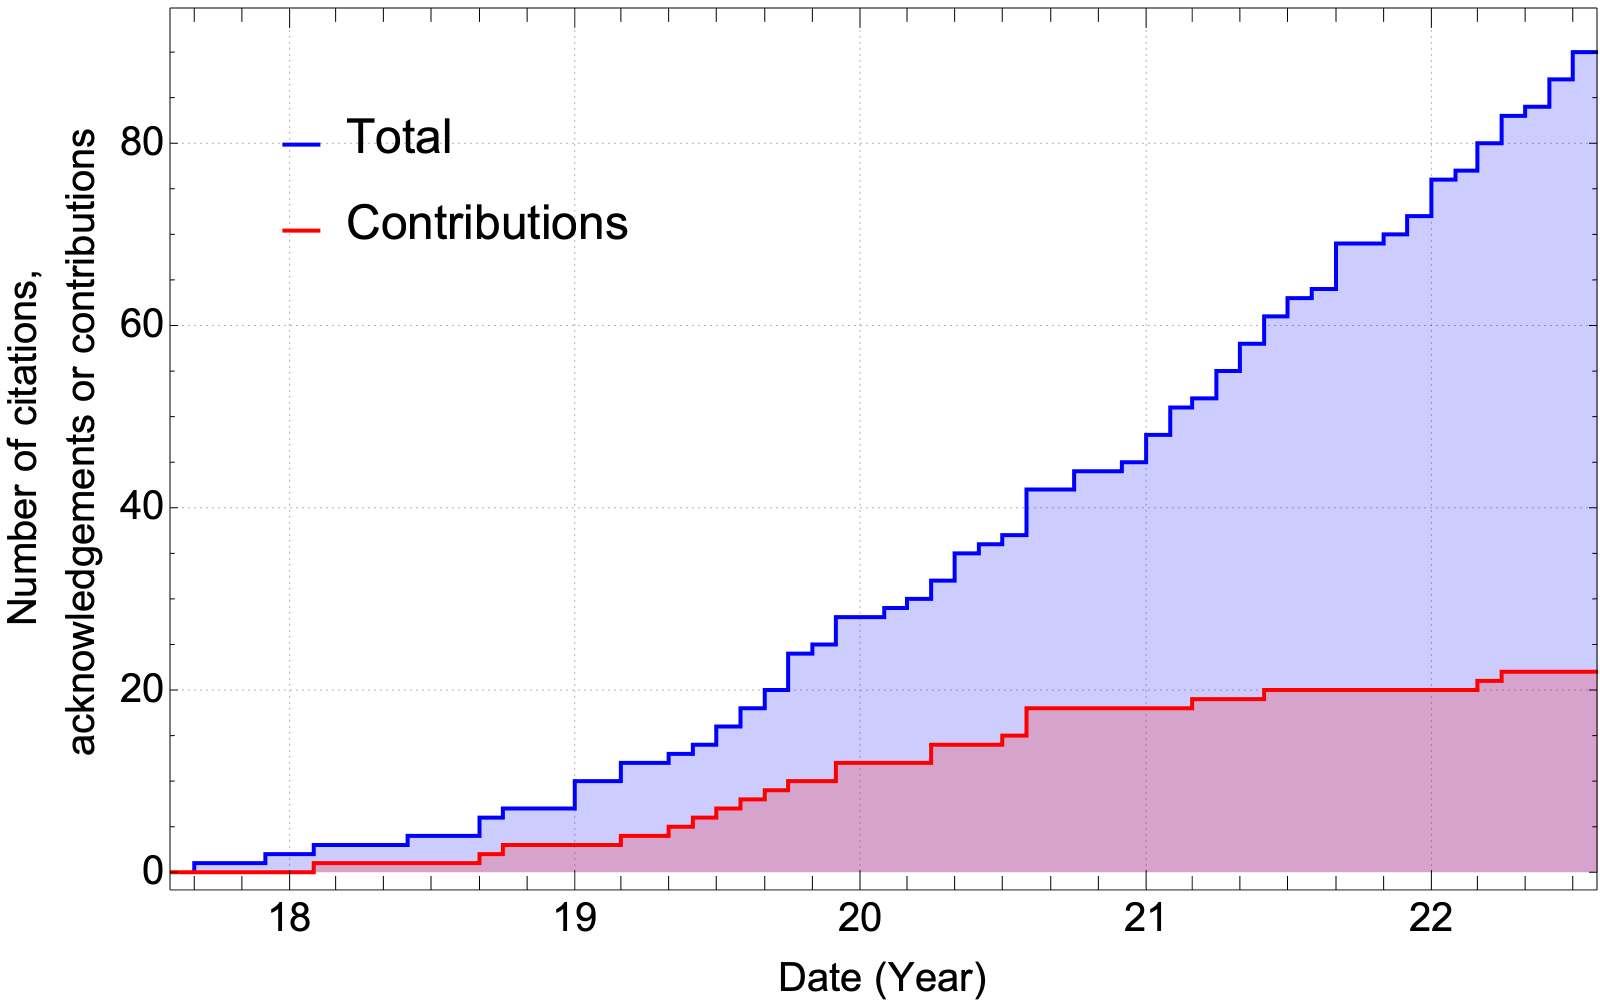
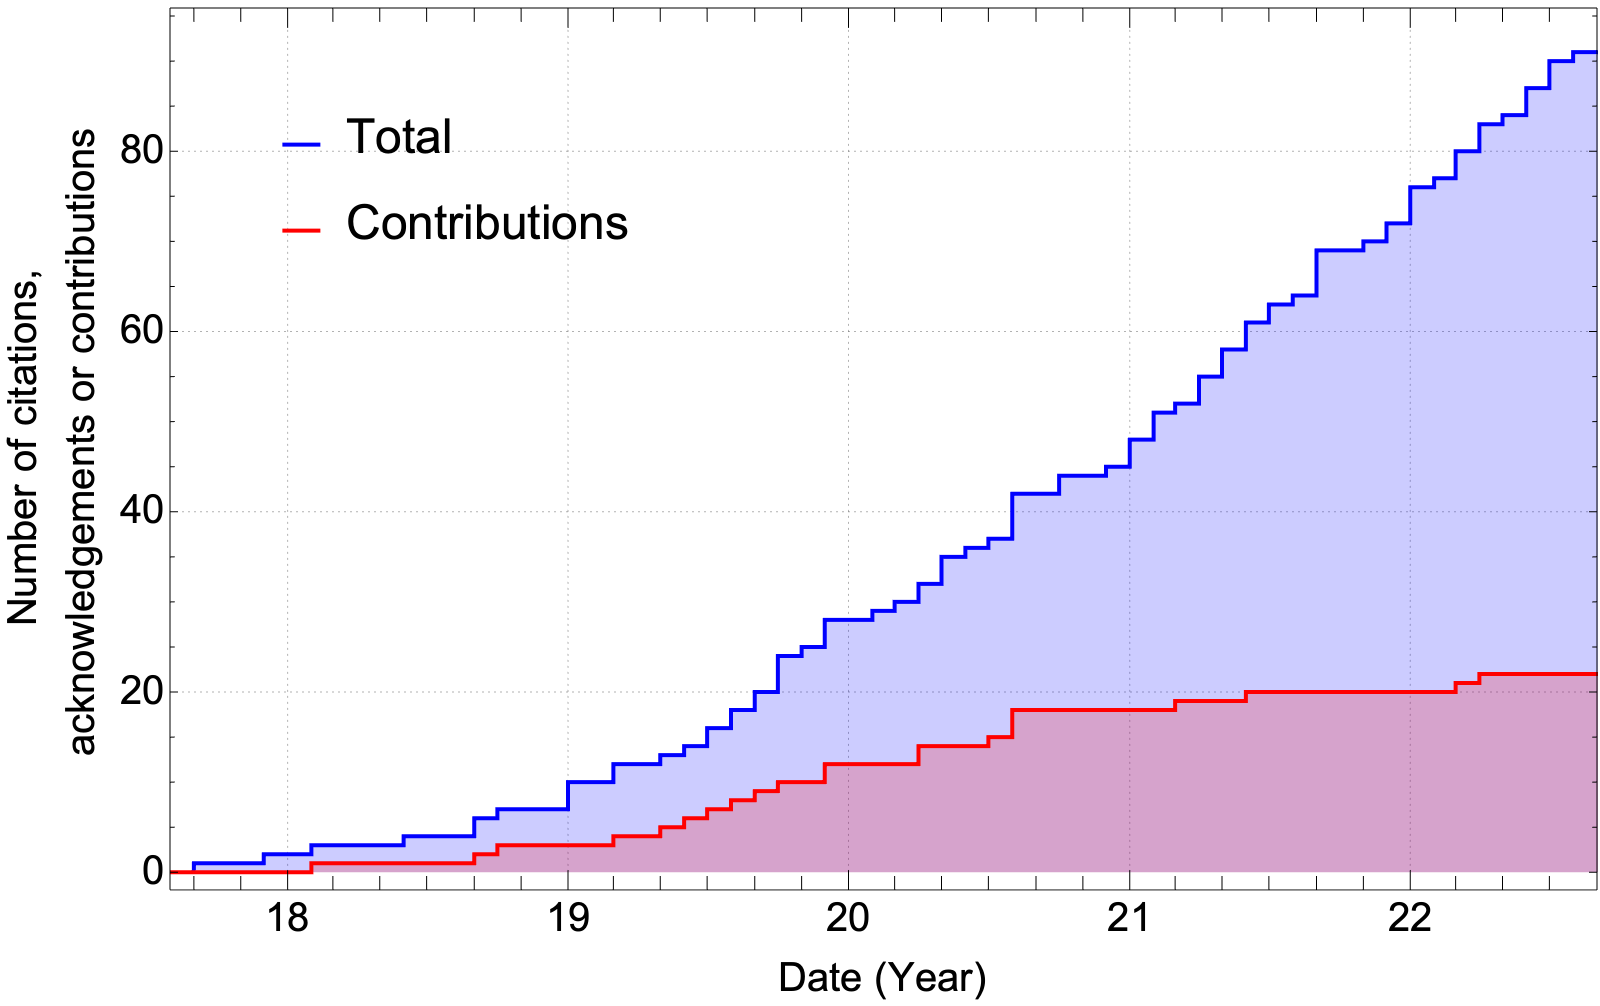
Add paper that cites the Toolkit

diff --git a/users.md b/users.md
@@ -19,6 +19,8 @@ The graph below show the accumulated citations to the Toolkit over time. The blu
 
 Below is a list of research papers that have used or extended the Toolkit. Papers that have contributed code or data to the Toolkit have a (*) after them.
 
+91\. "Comparing second-order gravitational self-force, numerical relativity and effective one body waveforms from inspiralling, quasi-circular and nonspinning black hole binaries", Angelica Albertini, Alessandro Nagar, Adam Pound, Niels Warburton, Barry Wardell, Leanne Durkan, Jeremy Miller, [arXiv:2208.01049](https://arxiv.org/abs/2208.01049)
+
 90\. "Measuring accretion-disk effects with gravitational waves from extreme mass ratio inspirals", Lorenzo Speri, Andrea Antonelli, Laura Sberna, Stanislav Babak, Enrico Barausse, Jonathan R. Gair, Michael L. Katz, [arXiv:2207.10086](https://arxiv.org/abs/2207.10086)
 
 89\. "Extreme Love in the SPA: constraining the tidal deformability of supermassive objects with extreme mass ratio inspirals and semi-analytical, frequency-domain waveforms", Gabriel Andres Piovano, Andrea Maselli, Paolo Pani, [arXiv:2207.07452](https://arxiv.org/abs/2207.07452)
